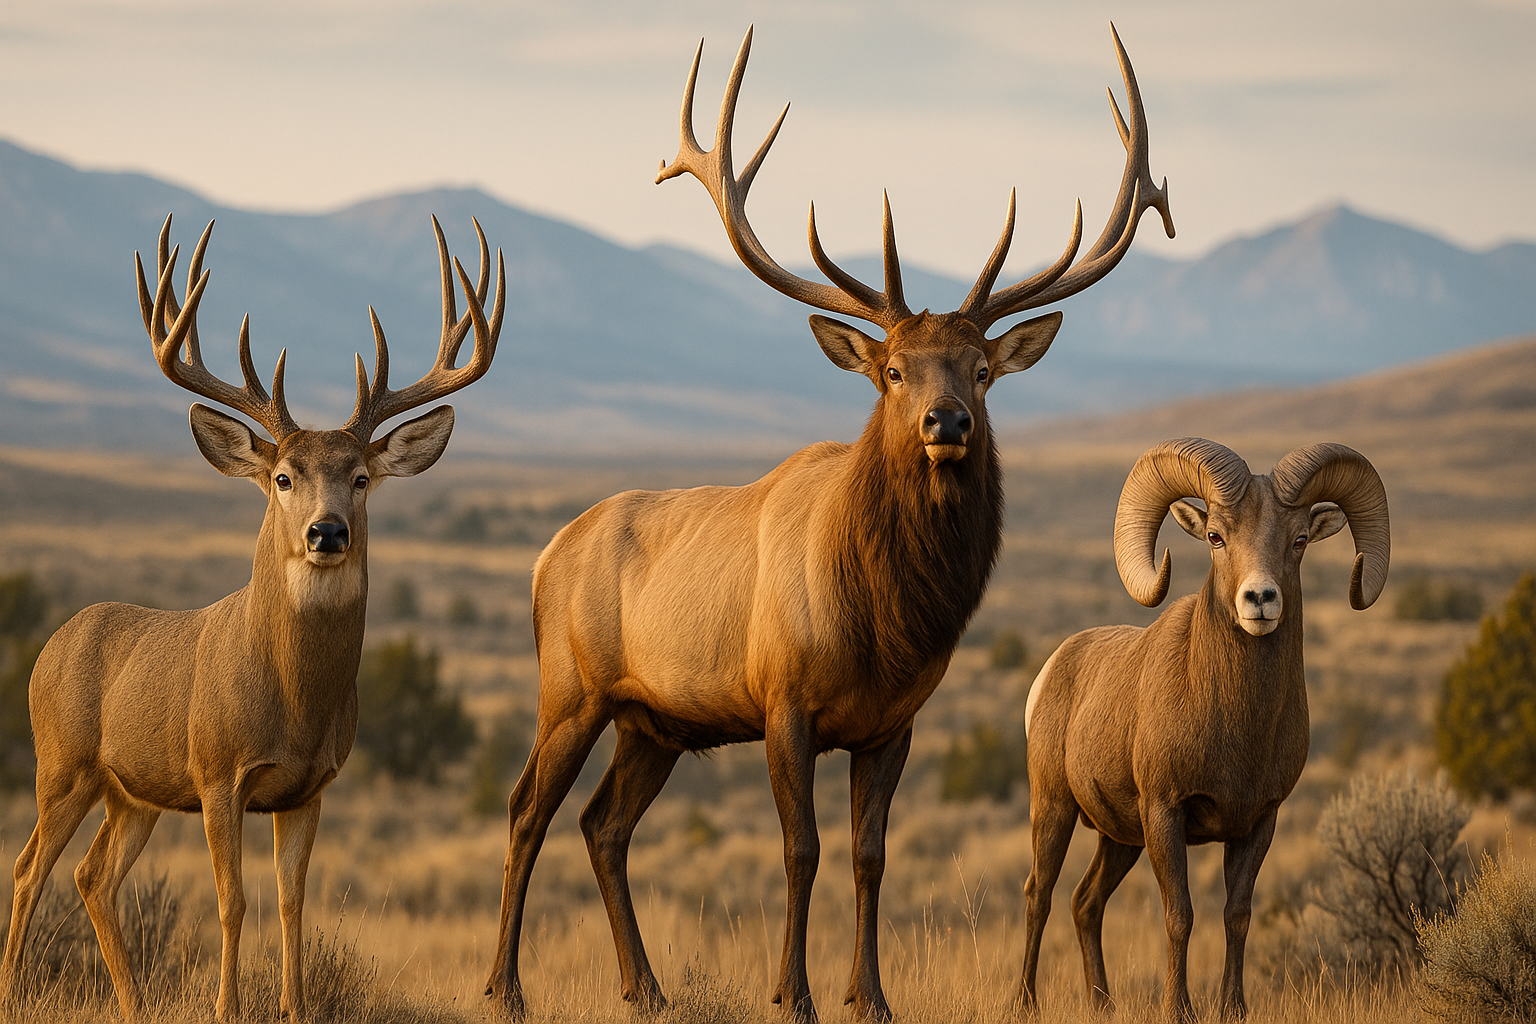
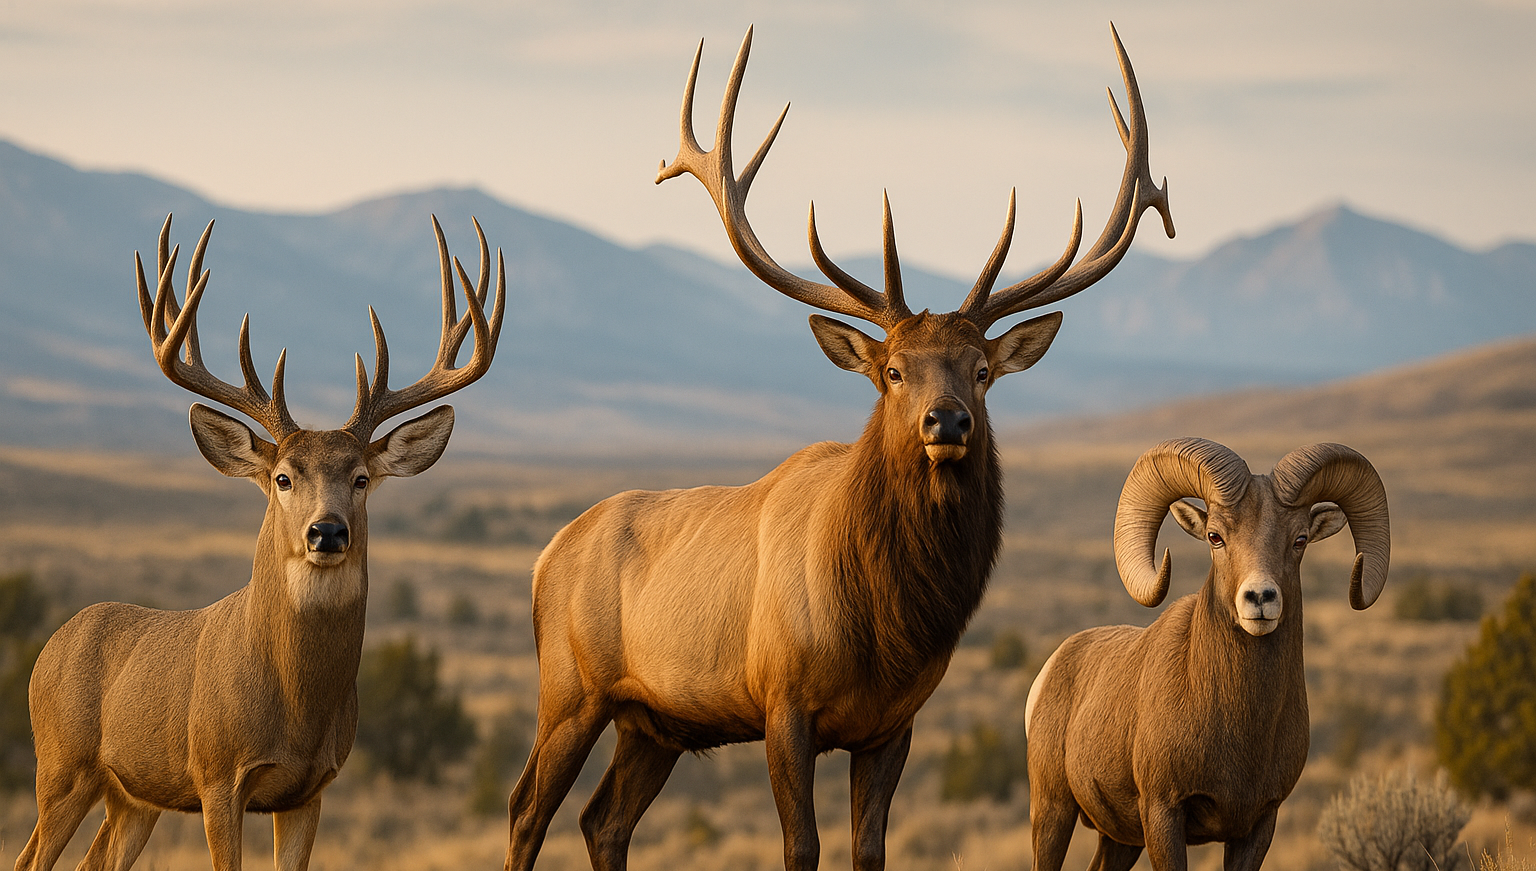
banneradjust

diff --git a/styles.css b/styles.css
@@ -75,7 +75,7 @@ nav a[aria-current="page"] { color: var(--accent); }
 }
 
 #banner img {
-    width: 100%; height: 100%;
+    width: 100%; height: auto;
     object-fit: cover;
     display: block;
     filter: contrast(1.05) saturate(1.05);
